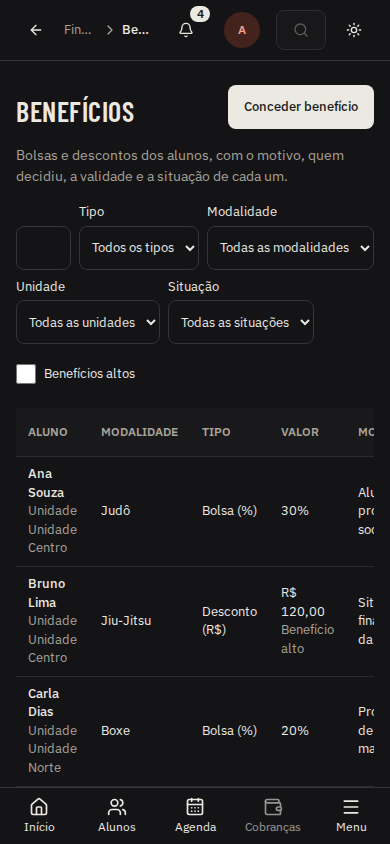
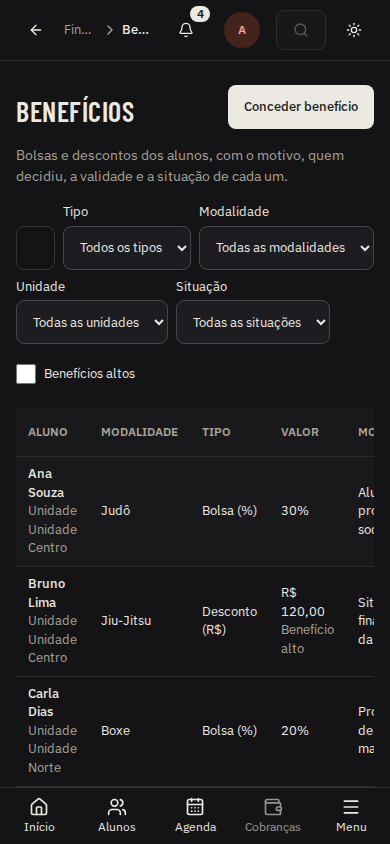
#420: Modalidades, faixas etárias, professores, turmas e agenda no visual do canvas (Sprints 04 e 05)

Changed region(s): [[0.1538, 0.2464, 0.8923, 0.4005], [0.0615, 0.3697, 0.3692, 0.4005], [0.8, 0.3697, 0.8615, 0.4005]]

diff --git a/specs/itens/420-telas-cadastros-agenda.md b/specs/itens/420-telas-cadastros-agenda.md
@@ -146,3 +146,20 @@ Verificado: Rodada 1 OK (estado 707c0347e6619d59d63b763507203ecd01afcba1): lint,
 Decisões que o revisor precisa saber: lista de modalidades e faixas segue como lista de linhas, e as tabelas seguem em `DataTable` (D4); `SummaryBox` e `QuickFilters` não entraram; sem caso visual para painel, editar, cancelar e corrigir aula, porque o id da aula é gerado pelo MSW.
 
 Limitações: a comparação de pixels no container (`test:visual:docker`) fica com o CI; estados vazio, erro e sem permissão não ganharam caso visual próprio além dos testes de tela existentes.
+
+Verificações do PR (PR #430, run 40897152310, SHA 0080426): `visual` falhou (`CORRIGIR_CODIGO`) e o `ci-gate` ficou vermelho por causa dele. Oito casos fora de pixel, com razão ~0,01: `beneficios` e `moldura-professor` em 390 e 1440, claro e escuro. As referências desses casos não mudam nesta branch e o `dev` passou no #419 (run 40886511728). Suspeita: a mudança em componente compartilhado ou a renderização local diferente da do container do CI. Próximo passo, na construção: reproduzir com `npm run test:visual:docker` e corrigir a causa; não atualizar as referências sem mudança visual pedida.
+
+### Correção da entrega
+- `visual` do PR #430 (8 casos `beneficios` e `moldura-professor`, 390 e 1440, claro e escuro) — causa: `Filter` de `features/classes/ClassFilters.tsx` passou a usar `Select` do sistema e é compartilhado com `BenefitFilters` e `AgendaFilters`; o desenho mudou de verdade e as referências desses casos não tinham sido regeradas (a rodada anterior só rodou os casos do item). Reproduzido no container (8 falhas, ~2327 px) — arquivos: 8 PNGs em `frontend/visual/referencias` (`beneficios-*`, `moldura-professor-*`) — prova: `npm run test:visual:docker -- --update-snapshots -g "beneficios|moldura-professor"` → 8 passaram; `npm run test:visual:docker` (suíte inteira) → 264 passaram. Nenhum código mudou; regressão de código inalterada (nada além das referências foi tocado). Imagem do Playwright já existia; nada novo ficou no Docker.
+
+### Rodada 2 — OK — 2026-10-29, estado 6cee6073d1c0850a707b56933da53765d2452160
+
+| Critério | Status | Evidência |
+|---|---|---|
+| CA1 a CA9, CA11, CA12 | PASSOU (mantido da rodada 1) | desde a rodada 1 só mudaram 8 PNGs de `visual/referencias` e este arquivo; nenhum código |
+| CA10 | PASSOU | `npm run test:visual:docker` (suíte inteira, container): 264 passaram; os 8 casos `beneficios` e `moldura-professor` isolados: 8 passaram |
+
+Comandos: `npm run test:visual:docker -- -g "beneficios|moldura-professor"` → 8 passaram; `npm run test:visual:docker` → 264 passaram (11,2 min).
+Instáveis: nenhum.
+Achados do PR #430 (visual): corrigido. As 8 referências regeradas batem com o desenho atual de `Filter` (compartilhado por classes, benefícios e agenda); mudança justificada por mudança visual do item.
+- sugestão, especificação — o número de PNGs em "Construção" (36 novos, 24 atualizados) segue desatualizado (rodada 1); agora são 8 atualizados a mais.
